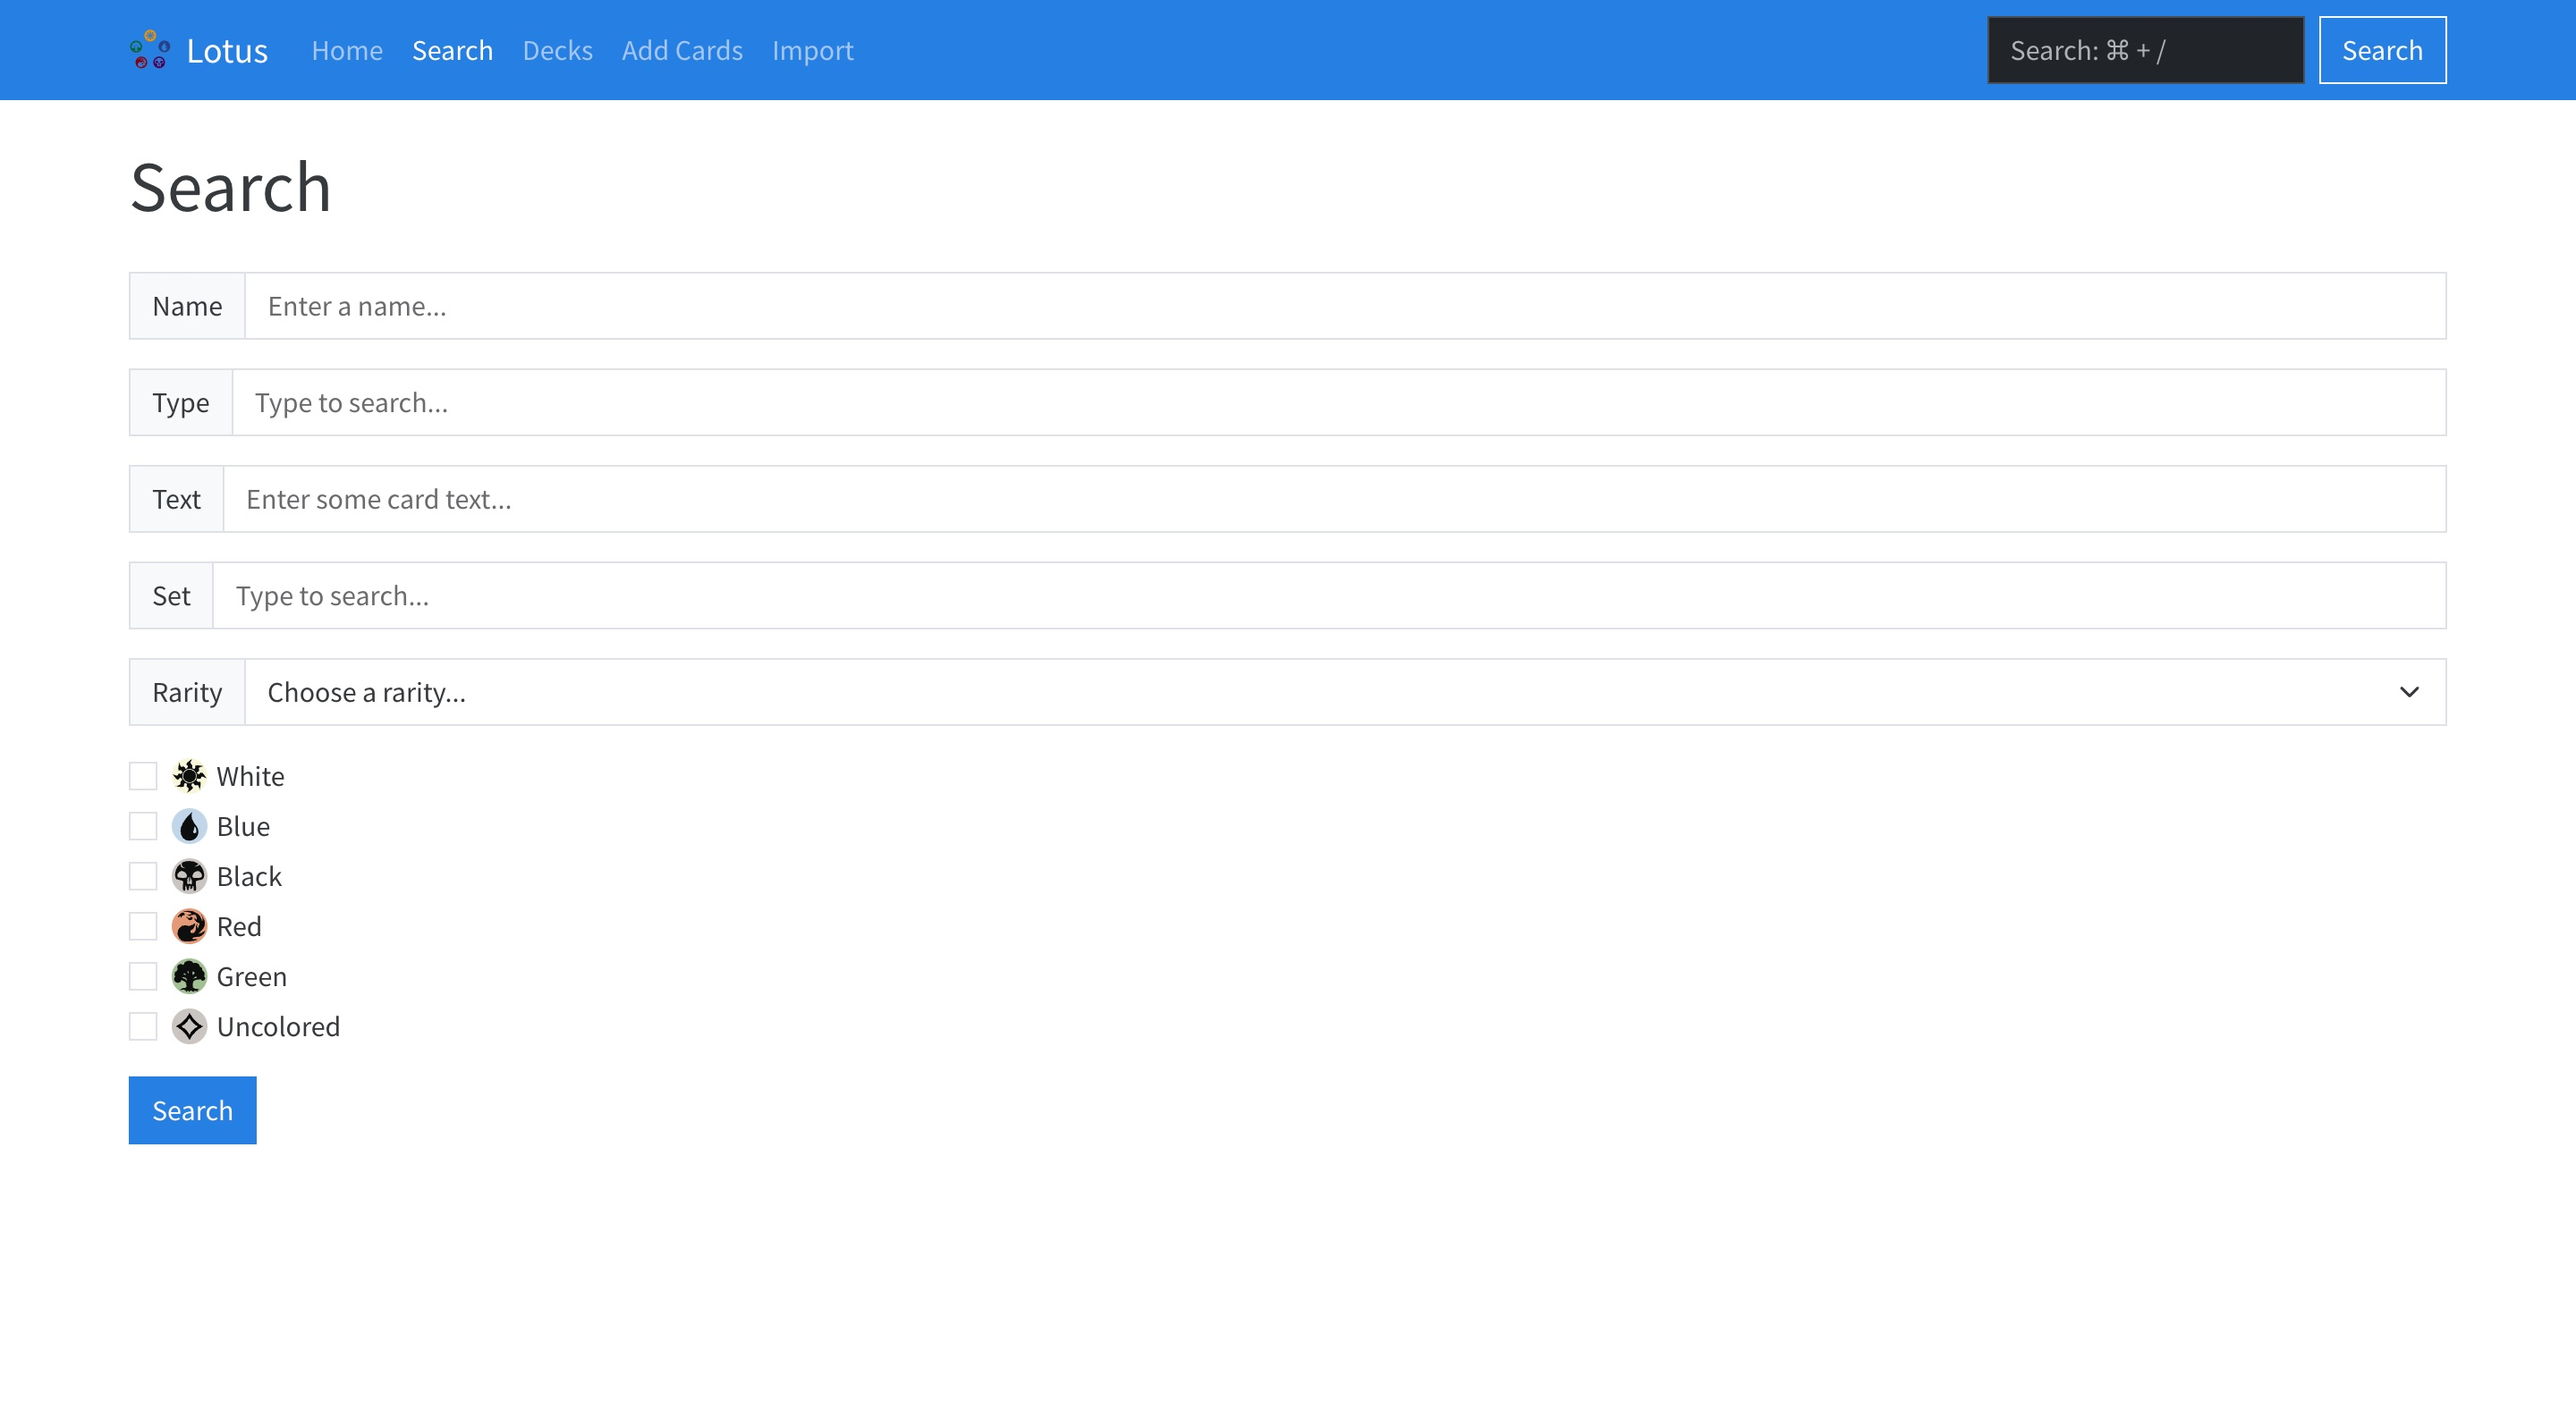
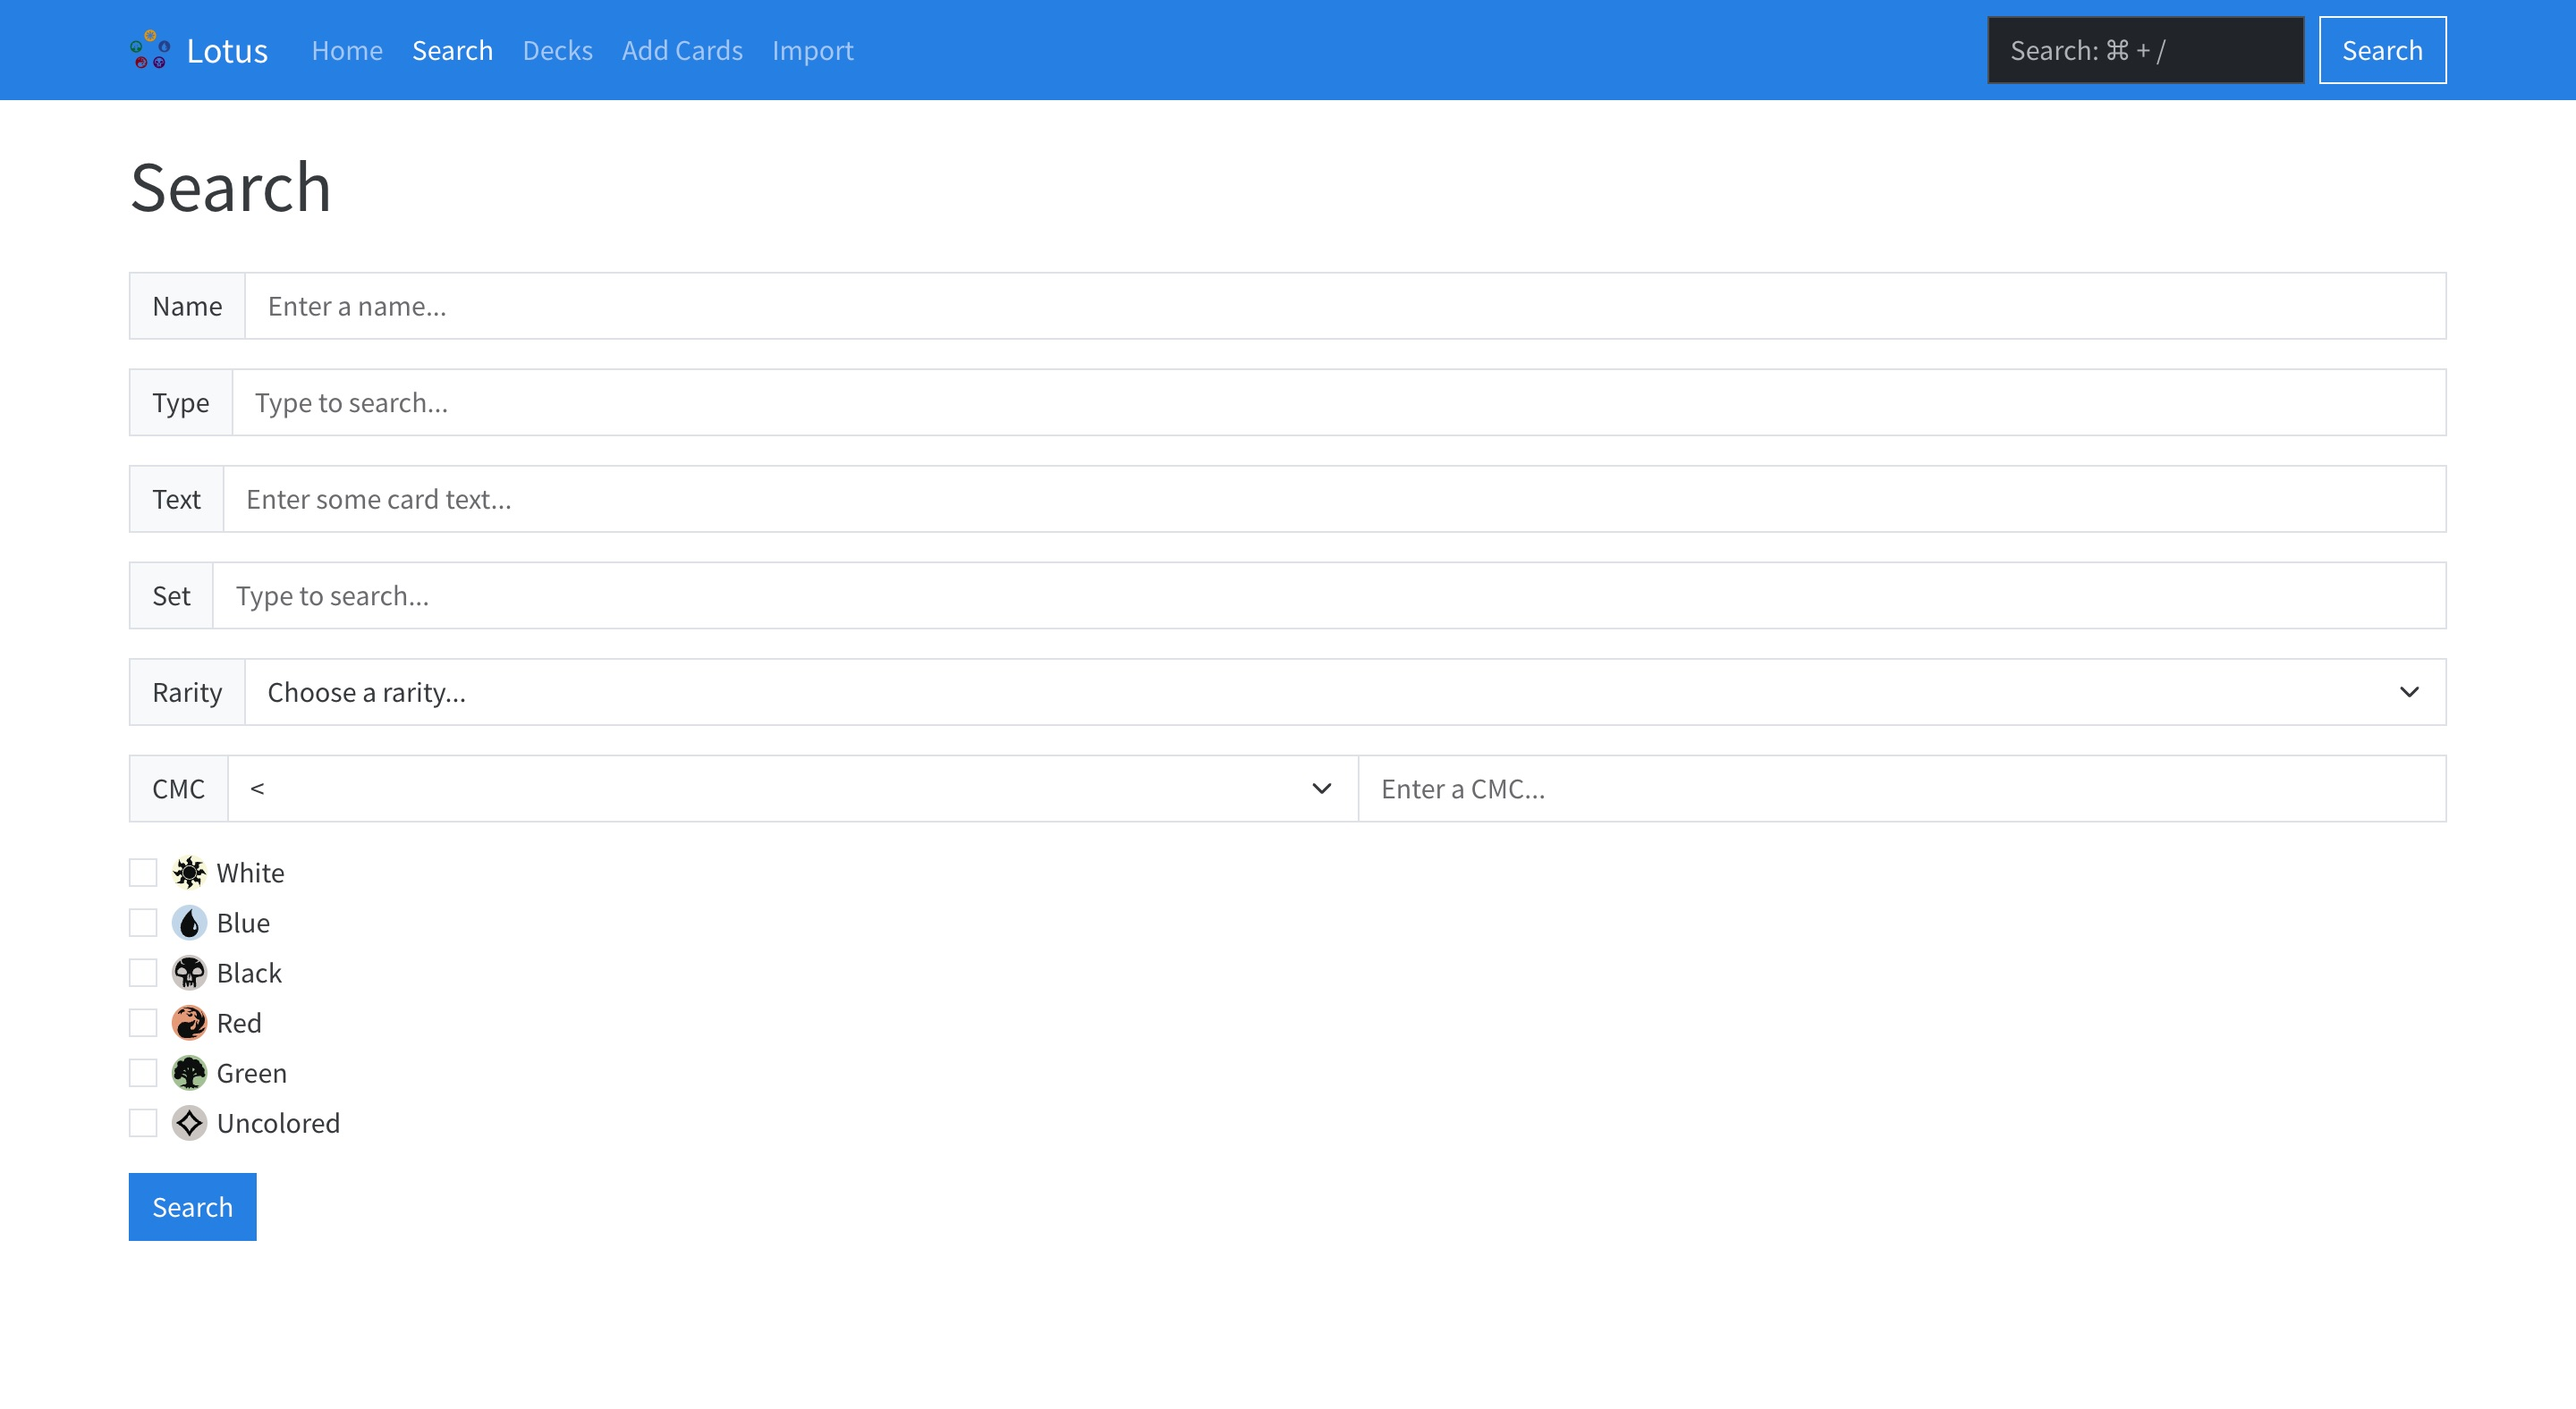
Add CMC option to search

Changed region(s): [[0.0312, 0.5286, 0.125, 0.9016], [0.5312, 0.5596, 0.5938, 0.5907]]

diff --git a/app/templates/search/search.html b/app/templates/search/search.html
@@ -47,6 +47,17 @@
                 <option value="common">Common</option>
             </select>
         </div>
+        <div class="input-group mb-3">
+            <label for="cmcTypeSelect" class="input-group-text">CMC</label>
+            <select class="form-select" aria-label="CMC Type" name="cmcType" id="cmcTypeSelect">
+                <option value="lessThan">&lt;</option>
+                <option value="lessThanEqualTo">&lt;=</option>
+                <option value="equalTo">=</option>
+                <option value="greaterThanEqualTo">&gt;=</option>
+                <option value="greaterThan">&gt;</option>
+            </select>
+            <input class="form-control" id="cmcInput" name="cmc" placeholder="Enter a CMC...">
+        </div>
         <div class="mb-3">
             <div class="form-check mb-1">
                 <input class="form-check-input" type="checkbox" value="w" id="whiteColor" name="color">

diff --git a/app/search/routes.py b/app/search/routes.py
@@ -31,6 +31,20 @@ def handle_search():
                     query = query.where(Card.color_identity.contains(color))
                 else:
                     query = query.where(Card.color_identity.notlike(f'%{color}%'))
+    if request.args.get('cmc') and request.args.get('cmcType'):
+        cmc = request.args.get('cmc')
+        cmcType = request.args.get('cmcType')
+
+        if cmcType == 'lessThan':
+            query = query.where(Card.cmc < cmc)
+        elif cmcType == 'lessThanEqualTo':
+            query = query.where(Card.cmc <= cmc)
+        elif cmcType == 'equalTo':
+            query = query.where(Card.cmc == cmc)
+        elif cmcType == 'greaterThanEqualTo':
+            query = query.where(Card.cmc >= cmc)
+        elif cmcType == 'greaterThan':
+            query = query.where(Card.cmc > cmc)
     
     return db.paginate(query, per_page=12)
 
@@ -57,6 +71,9 @@ def results():
             params['rarity'] = request.form.get('rarity')
         if len(request.form.getlist('color')) > 0:
             params['color'] = ",".join(request.form.getlist("color"))
+        if request.form.get('cmc') and request.form.get('cmcType'):
+            params['cmc'] = int(request.form.get('cmc'))
+            params['cmcType'] = request.form.get('cmcType')
         
         # Redirect to GET url
         return redirect(url_for('search.results', **params))
